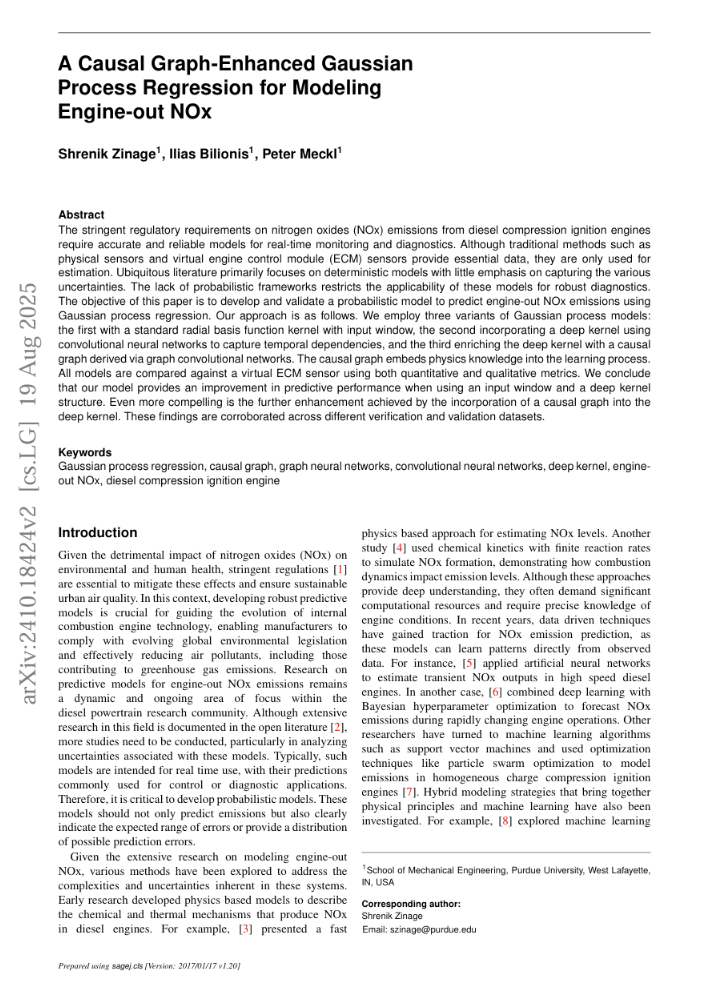
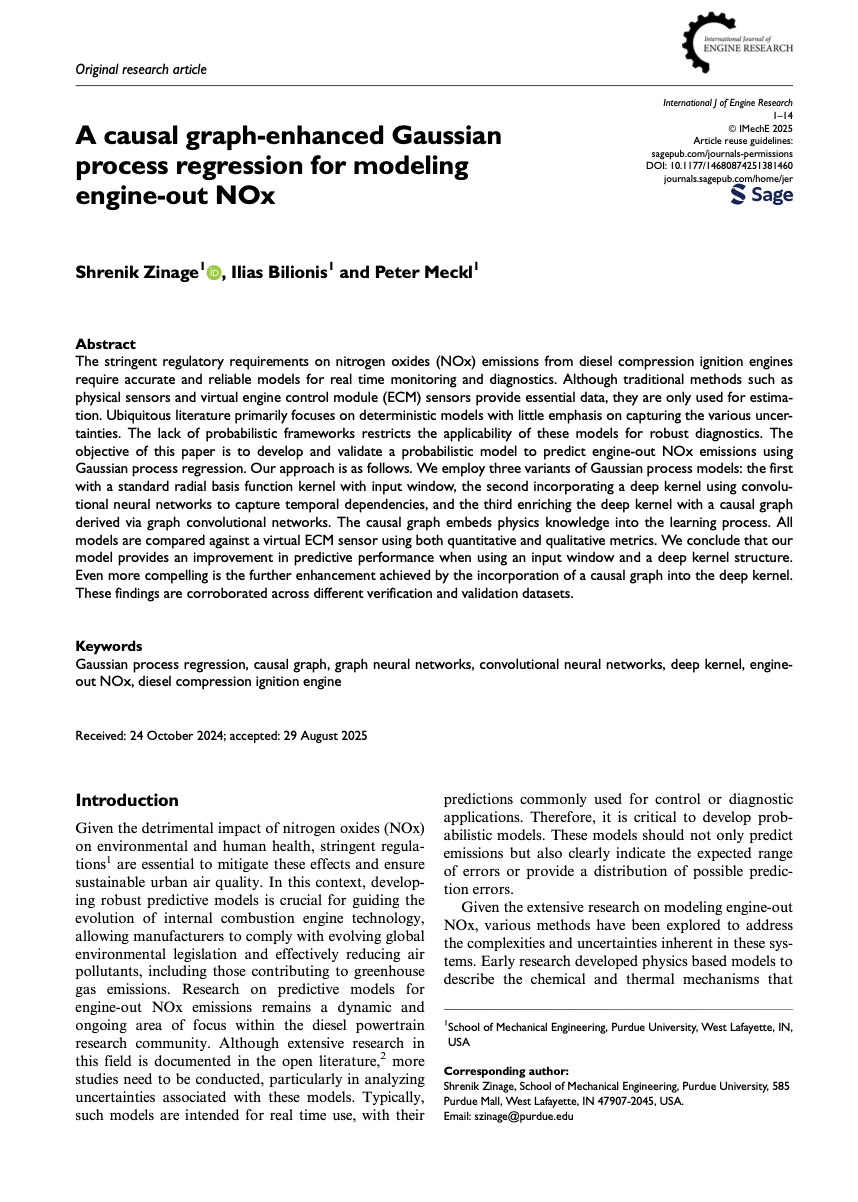
updated portfolio

Changed region(s): [[0.0312, 0.0311, 0.9375, 0.9328], [0.75, 0.0, 0.9375, 0.1866], [0.0938, 0.9639, 0.3438, 0.995]]

diff --git a/index.html b/index.html
@@ -79,10 +79,16 @@
                                 Hello! I am Shrenik. I am a PhD candidate in Mechanical Engineering at Purdue University. I hold an undergraduate degree from the Indian Institute of Technology Madras (IITM), India.
                             </p>
                             <p style="text-align: justify;">
-                                My research background lies in scientific machine learning, uncertainty quantification, causal AI, inverse problems, information field theory, digital twins, stochastic modeling, control, robotics and reinforcement learning advised by Prof.&nbsp;Ilias Bilionis. I am especially interested in how mathematics and machine learning can work together to solve real world engineering problems. 
+                                My research background lies in scientific machine learning, uncertainty quantification, causal AI, inverse problems, information field theory, digital twins, stochastic modeling, control, and reinforcement learning advised by Prof.&nbsp;Ilias Bilionis. I am especially interested in how mathematics and machine learning can work together to solve real world engineering problems. 
+                                
 
+                                <p style="text-align: justify; padding: 20px; background: #6c757d; border-left: 5px solid #ffd700; border-radius: 8px; box-shadow: 0 4px 6px rgba(0,0,0,0.1); color: white; font-weight: 500; margin: 20px 0;">
+                                    <strong>I am actively seeking full time positions in these areas and would be glad to connect if you think I might be a good fit!</strong>
+                                </p>
+
+                                
                                 <p style="text-align: justify;">
-                                    In Summer 2025, I was a Research Intern at Mitsubishi Electric Research Laboratories (MERL), Cambridge, MA, where I worked on Bayesian model calibration of large scale vapor compression cycles using experimental data. In Summer 2024, I was a Physics-Informed Machine Learning Intern at RTX Technology Research Center, East Hartford, CT.
+                                    This summer, I was a Research Intern at Mitsubishi Electric Research Laboratories (MERL), Cambridge, MA, where I worked on Bayesian model calibration of large scale vapor compression cycles using experimental data. In Summer 2024, I served as a Physics-Informed Machine Learning Intern at RTX Technology Research Center, East Hartford, CT.
                                   </p>
                             
                                   
@@ -90,9 +96,7 @@
                                     Prior to joining Purdue university, I worked with Prof.&nbsp; Abhilash Somayajula at IITM on comprehensive comparative study of various control methodologies, ranging from classical based controllers to AI based controllers, with a specific application in active heave compensation.
                                 </p>
 
-                                <p style="text-align: justify;">
-                                    I am actively seeking full time opportunities in these areas and would be glad to connect if you think I might be a good fit!
-                                </p>
+                               
                                   
                                   
                             <p>You can reach me at <a href="mailto:szinage@purdue.edu">szinage@purdue.edu</a>.</p>
@@ -103,6 +107,7 @@
                         <hr>
                         <span class="about_me">
                             <ul>
+                                <li><b>Nov&nbsp;2025&nbsp;&ndash;</b> Paper published at International Journal of Engine Research.</li>
                                 <li><b>Oct&nbsp;2025&nbsp;&ndash;</b> Paper submitted to American Control Conference.</li>
                                 <li><b>Aug&nbsp;2025&nbsp;&ndash;</b> Completed summer internship at <a href="https://www.merl.com/" target="_blank" rel="noopener"></a>Mitsubishi Electric Research Laboratories</a>.</li>
                                 <li><b>May&nbsp;2025&nbsp;&ndash;</b> Started summer internship at <a href="https://www.merl.com/" target="_blank" rel="noopener"></a>Mitsubishi Electric Research Laboratories</a>.</li>
@@ -218,6 +223,28 @@
                 <div class="col-sm-12">
                     <div class="row">
                         <div class="col-xs-9 col-sm-10">
+                            <h4>Causal Digital Twins for Real-Time Decision Making and Fault Detection <small>[Sep&nbsp;2024&nbsp;&ndash;&nbsp;Present]</small></h4>
+                            <ul>
+                                <li>Developing a novel scalable Bayesian approach to causal discovery.</li>
+                                <li>Developing AI agents for automating end to end causal inference.</li>
+                                <li>Evaluating the real world applicability and effectiveness of our proposed approach to fault detection in a real world engineering scenario.</li>
+                            </ul>
+                            <p><b>Skills:</b> Digital Twins, Causal Discovery, Variational Inference, Normalizing Flows<br>
+                            <!-- <b>Libraries:</b> GPyTorch, JAX, Pyro, NumPyro, SALib<br> -->
+                            <!-- <b>Links:</b> <a href="https://arxiv.org/abs/2410.18424">Paper 1</a> &nbsp;|&nbsp; Paper 2 (in prep)</p> -->
+                        </div>
+                        <div class="col-xs-3 col-sm-2">
+                            <img class="img-responsive project-thumb" src="img/cdt.png" alt="Project image: Causal Digital Twin for Real-Time Decision Making and Fault Detection">
+                        </div>
+                    </div>
+                </div>
+            </div>
+            <hr>
+
+            <div class="row fade-in-right">
+                <div class="col-sm-12">
+                    <div class="row">
+                        <div class="col-xs-9 col-sm-10">
                             <h4>Probabilistic System Modeling and Adaptability for Engine‑out NOx <small>[Jan&nbsp;2023&nbsp;&ndash;&nbsp;Present]</small></h4>
                             <ul>
                                 <li>Developed a predictive probabilistic model for engine‑out NOx using Gaussian process regression.</li>
@@ -228,7 +255,7 @@
                             </ul>
                             <p><b>Skills:</b> Graph neural networks, Digital twins, CNNs, Deep Koopman, Sobol analysis, Engine modeling, Gaussian processes, Causality, Bayesian calibration<br>
                                <b>Libraries:</b> GPyTorch, JAX, Pyro, NumPyro, SALib<br>
-                               <b>Links:</b> <a href="https://arxiv.org/abs/2410.18424">Paper 1</a> &nbsp;|&nbsp; Paper 2 (in prep)</p>
+                               <b>Links:</b> <a href="https://journals.sagepub.com/doi/10.1177/14680874251381460">Paper 1</a> &nbsp;|&nbsp; Paper 2 (in prep)</p>
                         </div>
                         <div class="col-xs-3 col-sm-2">
                             <img class="img-responsive project-thumb" src="img/cummins_project.png" alt="Project image: Probabilistic System Modeling and Adaptability for Engine‑out NOx">
@@ -619,6 +646,65 @@
             @media (max-width: 767px) { .publication-thumb { max-height: 135px; } }
             </style>
 
+            <div class="row scale-in">
+                <div class="col-sm-12">
+                    <div class="row">
+                        <div class="col-xs-9 col-sm-10">
+                            <h4 class="pubt">Bayesian Calibration of Engine-out NOx for Engine-to-Engine Transferability</h4>
+                            <div class="puba">Shrenik Zinage, Ilias Bilionis, Peter Meckl</div>
+                            <div class="pubv"><i>Planning to submit</i> to <i>Applied Energy</i></div>
+                            <ul class="list-inline publ">
+                                <!-- <li><a href="https://journals.sagepub.com/doi/10.1177/14680874251381460">Paper</a></li> -->
+                            </ul>
+                        </div>
+                        <div class="col-xs-3 col-sm-2">
+                            <img class="img-responsive publication-thumb" src="img/nox_calibration_paper.png" alt="First page of paper: Bayesian Calibration of Engine-out NOx for Engine-to-Engine Transferability">
+                        </div>
+                    </div>
+                </div>
+            </div>
+            <hr>
+
+            <div class="row scale-in">
+                <div class="col-sm-12">
+                    <div class="row">
+                        <div class="col-xs-9 col-sm-10">
+                            <h4 class="pubt">Sequential Model Calibration of Vapor Compression using Approximate Bayesian Computation</h4>
+                            <div class="puba">Shrenik Zinage, Vaibhav Dixit, Ankush Chakrabarty, Hongtao Qiao, Christopher Laughman, Ilias Bilionis, Vedang Deshpande</div>
+                            <div class="pubv"><i>Submitted</i> to <i>American Control Conference 2026</i></div>
+                            <ul class="list-inline publ">
+                                <!-- <li><a href="https://journals.sagepub.com/doi/10.1177/14680874251381460">Paper</a></li> -->
+                            </ul>
+                        </div>
+                        <div class="col-xs-3 col-sm-2">
+                            <img class="img-responsive publication-thumb" src="img/vcc_calibration_abc_paper.png" alt="First page of paper: Sequential Model Calibration of Vapor Compression using Approximate Bayesian Computation">
+                        </div>
+                    </div>
+                </div>
+            </div>
+            <hr>
+
+
+            <div class="row scale-in">
+                <div class="col-sm-12">
+                    <div class="row">
+                        <div class="col-xs-9 col-sm-10">
+                            <h4 class="pubt">A Causal Graph-Enhanced Gaussian Process Regression for Modeling Engine-out NOx</h4>
+                            <div class="puba">Shrenik Zinage, Ilias Bilionis, Peter Meckl</div>
+                            <div class="pubv"><i>International Journal of Engine Research</i></div>
+                            <ul class="list-inline publ">
+                                <li><a href="https://journals.sagepub.com/doi/10.1177/14680874251381460">Paper</a></li>
+                            </ul>
+                        </div>
+                        <div class="col-xs-3 col-sm-2">
+                            <img class="img-responsive publication-thumb" src="img/causalgp_first.png" alt="First page of paper: A Causal Graph-Enhanced Gaussian Process Regression for Modeling Engine-out NOx">
+                        </div>
+                    </div>
+                </div>
+            </div>
+            <hr>
+
+
             <!-- Each item is a compact block; add images if you have local assets -->
             <div class="row scale-in">
                 <div class="col-sm-12">
@@ -639,24 +725,6 @@
             </div>
             <hr>
 
-            <div class="row scale-in">
-                <div class="col-sm-12">
-                    <div class="row">
-                        <div class="col-xs-9 col-sm-10">
-                            <h4 class="pubt">A Causal Graph-Enhanced Gaussian Process Regression for Modeling Engine-out NOx</h4>
-                            <div class="puba">Shrenik Zinage, Ilias Bilionis, Peter Meckl</div>
-                            <div class="pubv"><i>Accepted</i> at <i>International Journal of Engine Research</i></div>
-                            <ul class="list-inline publ">
-                                <li><a href="https://arxiv.org/abs/2410.18424">Paper</a></li>
-                            </ul>
-                        </div>
-                        <div class="col-xs-3 col-sm-2">
-                            <img class="img-responsive publication-thumb" src="img/causalgp_first.png" alt="First page of paper: A Causal Graph-Enhanced Gaussian Process Regression for Modeling Engine-out NOx">
-                        </div>
-                    </div>
-                </div>
-            </div>
-            <hr>
 
             <div class="row scale-in">
                 <div class="col-sm-12">
@@ -847,8 +915,9 @@
                             <li class="book-item">Intelligence: The Creative Response to Now (Osho Insights for a New Way of Living)</li>
                             <li class="book-item">Maturity: The Responsibility of Being Oneself (Osho Insights for a New Way of Living)</li>
                             <li class="book-item">The Maniac (Benjamín Labatut)</li>
-                            <li class="book-item">Finish what you start (Leh Londes)</li>
-                            <li class="book-item">The hard thing about hard things (Ben Horowitz)</li>
+
+                            <!-- <li class="book-item">Finish what you start (Leh Londes)</li>
+                            <li class="book-item">The hard thing about hard things (Ben Horowitz)</li> -->
                         </ol>
                     </div>
                 </div>
